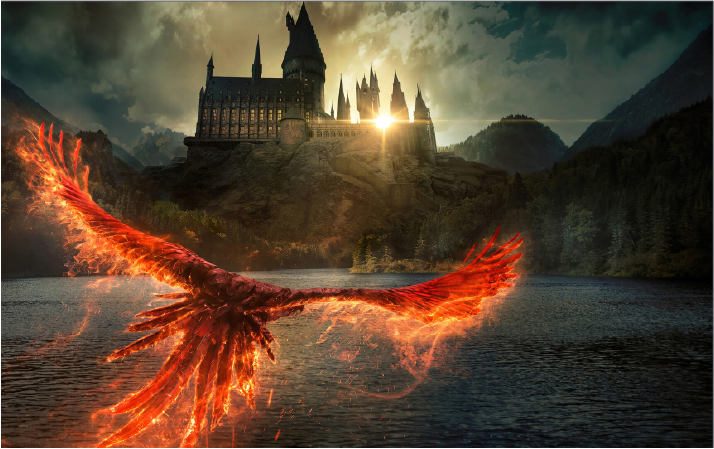
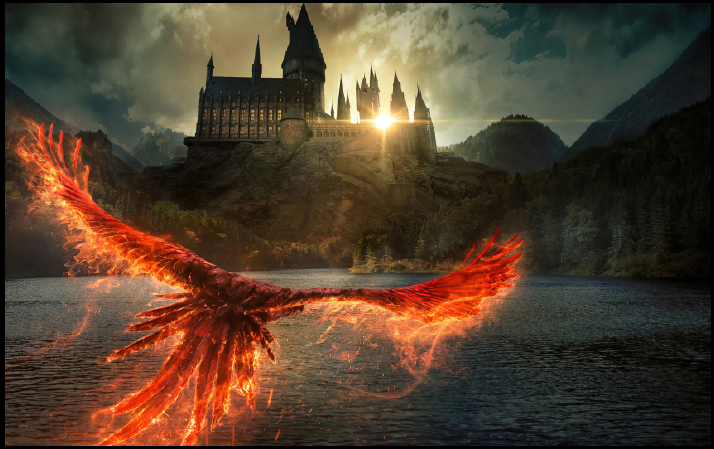
cambios index
Cambios en formato y estilos..
Imagen de fondo y body de ancho fijo para que no se deforme la imagen al estirar..

Changed region(s): [[0.0, 0.0, 1.0, 1.0]]

diff --git a/index.html b/index.html
@@ -13,57 +13,58 @@
 </head>
 
 <body class="body-completo">
-    <header class="header-Ppal">
-        <div class="container">
-            <h1 class="logo-bnr"><img src="IMG/img-LOGO.svg" width="100px" alt="Logo Hogwarts SD-3D"></h1>
-            <nav class="bannerSup-nav">
-                <a class="bannerSup-nav-Link" href="https://www.wizardingworld.com/" target="_blank">NOVEDADES</a>
-                <a class="bannerSup-nav-Link"
-                    href="https://todoharrypotter.es/todos-los-personajes-de-la-saga-harry-potter"
-                    target="_blank">PERSONAJES</a>
-                <a class="bannerSup-nav-Link" href="https://harrypotter.fandom.com/es/wiki/HarryPotter_Wiki"
-                    target="_blank">WIKIFANDOM</a>
-                <a class="bannerSup-nav-Link" href="https://www.instagram.com/stories/highlights/17879426765515078/"
-                    target="_blank">REDES</a>
-            </nav>
-            <h1 class="img-bnr-fondo"><img src="IMG/img-HExp-byn.png" alt="Hogwarts Background"></h1>
-        </div>
-    </header>
-    <main>
-        <div class="colum-izq">
-            <div class="colum-iz-nav-links">
-                <img src="IMG/img-btn-productos.svg" href="Productos.html" width="60px" alt="Nuestros productos">
-                <a class="colum-izq-nav" href="Productos.html">PRODUCTOS</a>
+    <div class="body-container">
+        <header class="header-Ppal">
+            <div class="container">
+                <h1 class="logo-bnr"><img src="./IMG/img-LOGO.svg" width="100px" alt="Logo Hogwarts SD-3D"></h1>
+                <nav class="bannerSup-nav">
+                    <a class="bannerSup-nav-Link" href="https://www.wizardingworld.com/" target="_blank">NOVEDADES</a>
+                    <a class="bannerSup-nav-Link"
+                        href="https://todoharrypotter.es/todos-los-personajes-de-la-saga-harry-potter"
+                        target="_blank">PERSONAJES</a>
+                    <a class="bannerSup-nav-Link" href="https://harrypotter.fandom.com/es/wiki/HarryPotter_Wiki"
+                        target="_blank">WIKIFANDOM</a>
+                    <a class="bannerSup-nav-Link" href="https://www.instagram.com/stories/highlights/17879426765515078/"
+                        target="_blank">REDES</a>
+                </nav>
+                <h1 class="img-bnr-fondo"><img src="./IMG/img-HExp-byn.png" alt="Hogwarts Background"></h1>
             </div>
-            <div class="colum-iz-nav-links">
-                <img src="IMG/img-btn-extras.svg" width="60px" alt="Referencias de interes">
-                <a class="colum-izq-nav" href="Extras.html">EXTRAS</a>
+        </header>
+        <main>
+            <div class="colum-izq">
+                <div class="colum-iz-nav-links">
+                    <a href="Productos.html"><img src="./IMG/img-btn-productos.svg" width="60px"
+                            alt="Nuestros productos"></a>
+                    <a class="colum-izq-nav" href="Productos.html">PRODUCTOS</a>
+                </div>
+                <div class="colum-iz-nav-links">
+                    <a href="Extras.html"><img src="./IMG/img-btn-extras.svg" width="60px"
+                            alt="Referencias de interes"></a>
+                    <a class="colum-izq-nav" href="Extras.html">EXTRAS</a>
+                </div>
+                <div class="colum-iz-nav-links">
+                    <a href="Peliculas.html"><img src="./IMG/img-btn-pelis.svg" width="60px" alt="Filmografía"></a>
+                    <a class="colum-izq-nav" href="Peliculas.html">PELICULAS</a>
+                </div>
+                <div class="colum-iz-nav-links">
+                    <a href="Contacto.html"><img src="./IMG/img-btn-contacto.svg" width="60px" alt="Contactenos"></a>
+                    <a class="colum-izq-nav" href="Contacto.html">CONTACTO</a>
+                </div>
             </div>
-            <div class="colum-iz-nav-links">
-                <img src="IMG/img-btn-pelis.svg" width="60px" alt="Filmografía">
-                <a class="colum-izq-nav" href="Peliculas.html">PELICULAS</a>
+
+            <div class="colum-ppal">
+
+                <div class="img-Carrousel">
+
+                </div>
             </div>
-            <div class="colum-iz-nav-links">
-                <img src="IMG/img-btn-contacto.svg" width="60px" alt="Contactenos">
-                <a class="colum-izq-nav" href="Contacto.html">CONTACTO</a>
-            </div>
 
+        </main>
 
-        </div>
-
-        <div class="colum-ppal">
-           
-            <div class="img-Carrousel">
-
-            </div>
-        </div>
-
-    </main>
-
-    <footer>
-        <p class="copyright">* by Pat-B *</p>
-    </footer>
-
+        <footer>
+            <p class="copyright">* by Pat-B *</p>
+        </footer>
+    </div>
 </body>
 
 </html>

diff --git a/flexbox-home.css b/flexbox-home.css
@@ -1,6 +1,9 @@
-
 .body-completo{
     background-color: black;    
+}
+.body-container{
+    max-width: 900px;
+    margin: auto;
 }
 .bannerSup-nav-Link {
     color: rgb(255 186 59);
@@ -28,7 +31,7 @@
     width: 100%;
     background-image: url(./IMG/img-bkg-Hgw.png);
     background-size: 100% auto;
-    background-repeat: repeat;
+    background-repeat: no-repeat;
   
 }
 .colum-iz-nav-links a{
